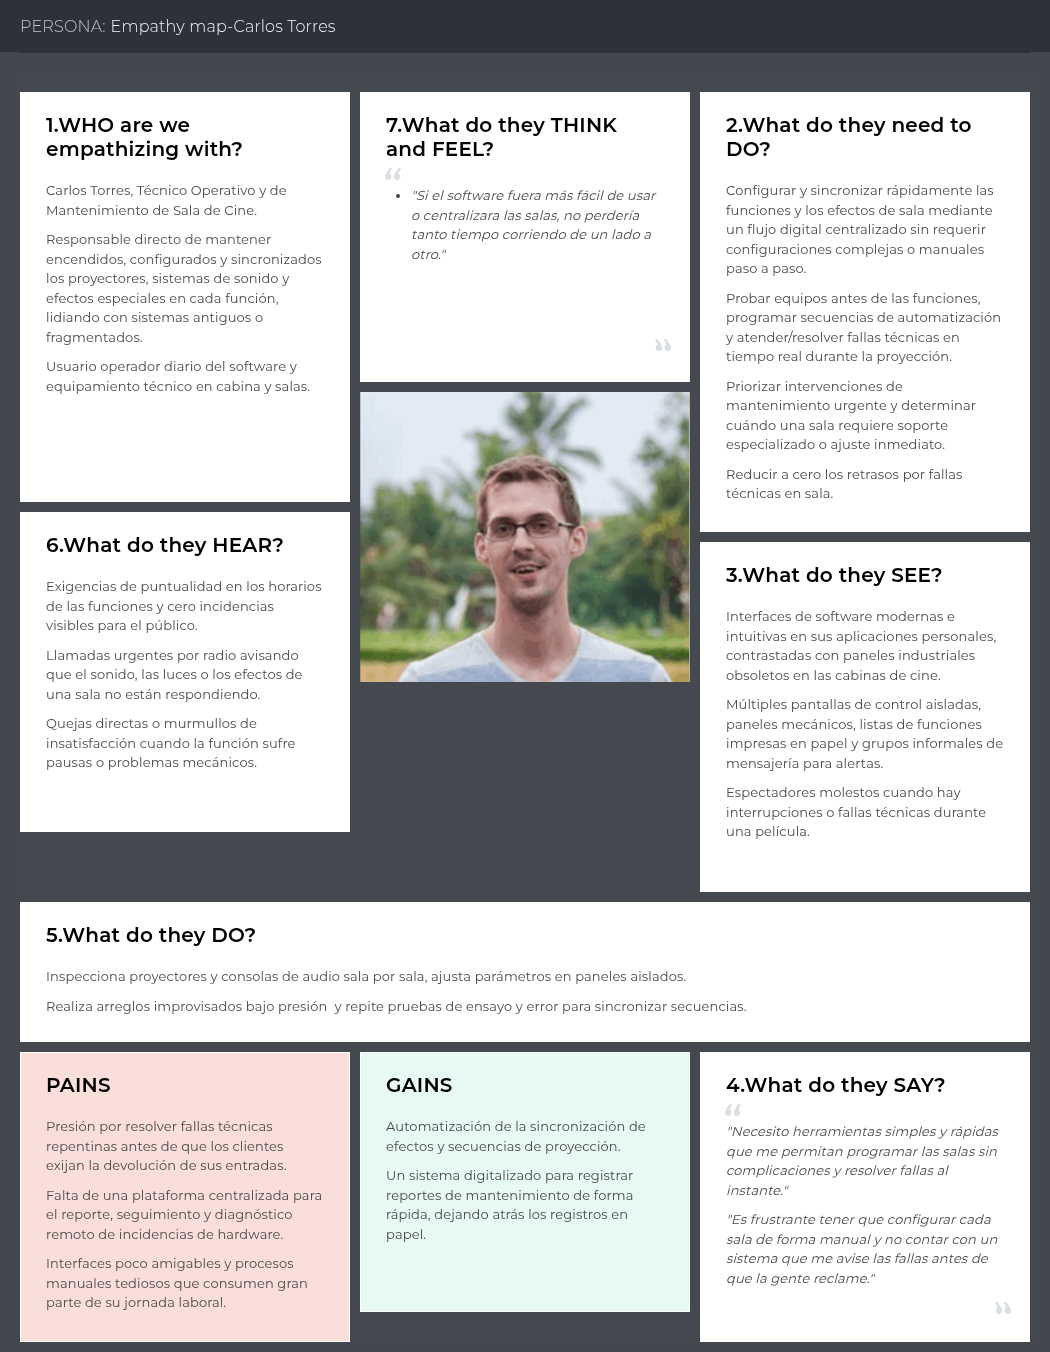
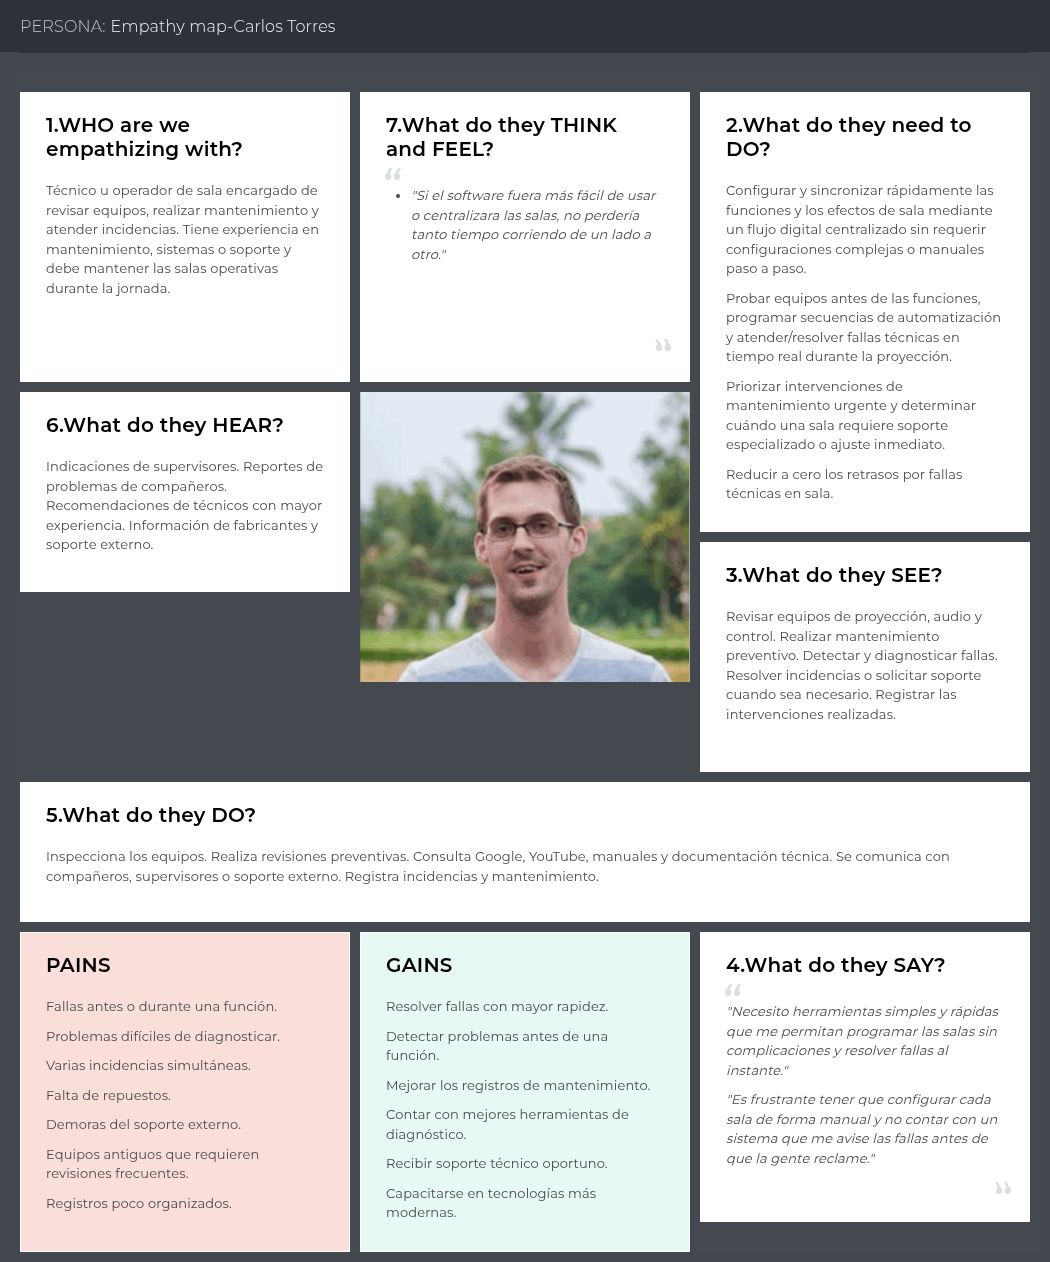
docs(needfinding): update empathy mapping

Changed region(s): [[0.0, 0.0618, 1.0, 1.0], [0.0305, 0.0, 0.3048, 0.0309]]

diff --git a/README.md b/README.md
@@ -403,15 +403,13 @@ Para el análisis de competencia se identificaron tres competidores indirectos c
 
 > _Pendiente — completar en `feature/journey-maps`._
 
-#### 2.3.4 Empathy Mapping
+#### 2.3.4. Empathy Mapping
 
-**Pepe Castillo:**  
-La imagen resume los hallazgos sobre lo que piensa, siente, ve, escucha, dice y hace el Gerente de Operaciones. Refleja su preocupación por la pérdida de competitividad frente a grandes cadenas y su deseo de adoptar un modelo de software y tecnología accesible con ROI predecible.
+El Empathy Map de Pepe Castillo evidencia un perfil orientado a la planificación, evaluación económica y reducción del riesgo antes de adoptar nuevas tecnologías. Sus principales preocupaciones se relacionan con el costo, mantenimiento, soporte y retorno esperado de la inversión.
 
 <img src="assets/img/Empathy%20map-Pepe%20Castillo.png" alt="Empathy Map - Pepe Castillo">
 
-**Carlos Torres:**  
-La imagen sintetiza la vivencia diaria del técnico de sala. Destaca la presión por resolver fallas repentinas antes de las funciones y la oportunidad de contar con un sistema automatizado e intuitivo para reportes y calibración de equipos.
+El Empathy Map de Carlos Torres refleja un perfil técnico enfocado en la prevención y resolución de incidencias. Sus principales dificultades aparecen ante fallas inesperadas, limitaciones de diagnóstico, falta de repuestos y demoras del soporte, mientras que sus objetivos se centran en mantener la continuidad operativa de las salas.
 
 <img src="assets/img/Empathy%20map-Carlos%20Torres.png" alt="Empathy Map - Carlos Torres">
 
